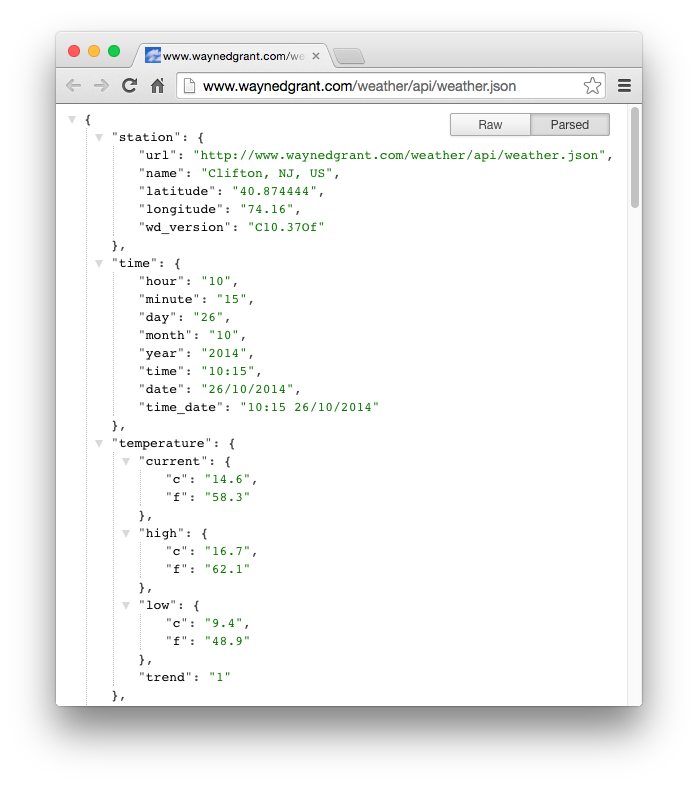
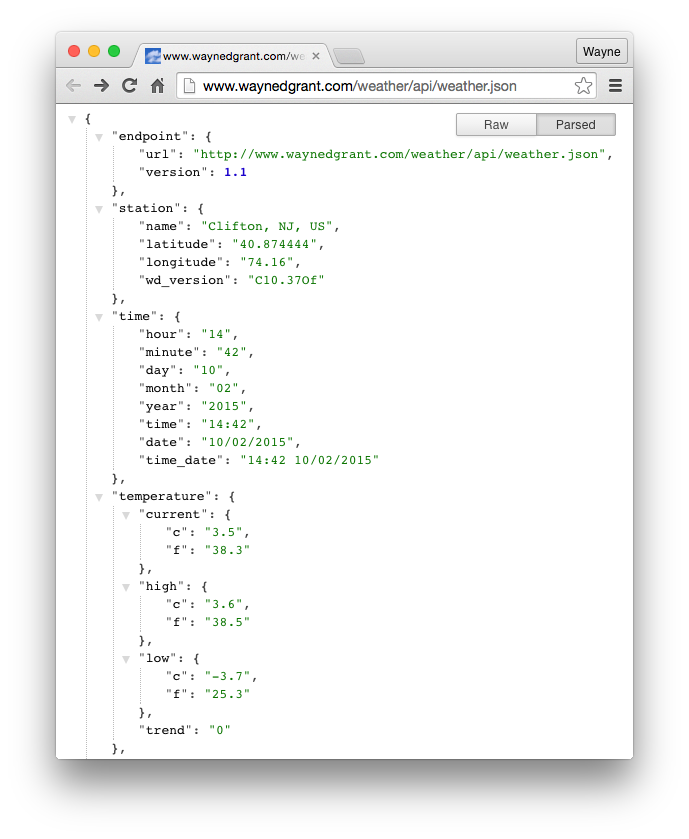
Add indoor endpoint, add service version to returns

Changed region(s): [[0.061, 0.0305, 0.9448, 0.8244], [0.0914, 0.855, 0.9144, 0.916], [0.1829, 0.8244, 0.2134, 0.855]]

diff --git a/common.php b/common.php
@@ -4,6 +4,7 @@
     # Licensed under the MIT License
 
     $client_raw_directory = './';
+    $service_version = 1.1;
     
     function get_client_raw_fields()
     {
@@ -71,6 +72,14 @@
     {
         return "http".(!empty($_SERVER['HTTPS'])?"s":"")."://".$_SERVER['SERVER_NAME'].$_SERVER['REQUEST_URI'];
     }
+    
+    function get_endpoint_item()
+    {
+        global $service_version;
+        return array(  
+            "url" => get_service_url(),
+            "version" => $service_version);
+    }
 
     function get_station_name($station_name)
     {
@@ -111,8 +120,7 @@
 
     function get_station_item($client_raw_fields)
     {
-        return array(
-            "url" => get_service_url(),
+        return array(            
             "name" => get_station_name(read_client_raw_field($client_raw_fields, 32)),
             "latitude" => get_value(read_client_raw_field($client_raw_fields, 160)),
             "longitude" => get_value(read_client_raw_field($client_raw_fields, 161)),

diff --git a/README.md b/README.md
@@ -10,7 +10,7 @@ JSON formatted Web Service API to expose [Weather Display Live](http://www.weath
 
 json-webservice-wdlive exposes much of a weather station's Weather Display Live (WDL) data as a simple JSON formatted Web Service API.
 
-It exposes two URLs. The first returns current weather conditions including Temperature, Pressure, Rainfall, Wind, Humidity, Dew Point, Wind Chill, Humidex, Heat Index and UV. The second returns a weather almanac for Month-to-Date, Year-to-Date and All Time records.
+It exposes three URLs. The first returns current weather conditions including Temperature, Pressure, Rainfall, Wind, Humidity, Dew Point, Wind Chill, Humidex, Heat Index and UV. The second returns a weather almanac for Month-to-Date, Year-to-Date and All Time records. The third returns the current indoor conditions for Temperature and Humidity.
 
 Besides exposing the data in the default units found in clientraw the responses also contain many alternative units. For example, clientraw files store wind speeds in knots. The Web Service responses, on the other hand, respond with Bft, knots, km/h, mph, and m/s.
 
@@ -55,6 +55,12 @@ For example:
 
 * JSON: [http://www.waynedgrant.com/weather/api/almanac.json](http://www.waynedgrant.com/weather/api/almanac.json)
 * JSONP: [http://www.waynedgrant.com/weather/api/almanac.json?callback=weatherCallback](http://www.waynedgrant.com/weather/api/almanac.json?callback=weatherCallback)
+
+**Current Indoor Conditions URL - indoor.json**
+
+* JSON: [http://www.waynedgrant.com/weather/api/indoor.json](http://www.waynedgrant.com/weather/api/indoor.json)
+* JSONP: [http://www.waynedgrant.com/weather/api/indoor.json?callback=weatherCallback](http://www.waynedgrant.com/weather/api/indoor.json?callback=weatherCallback)
+
 
 ## API Documentation
 
